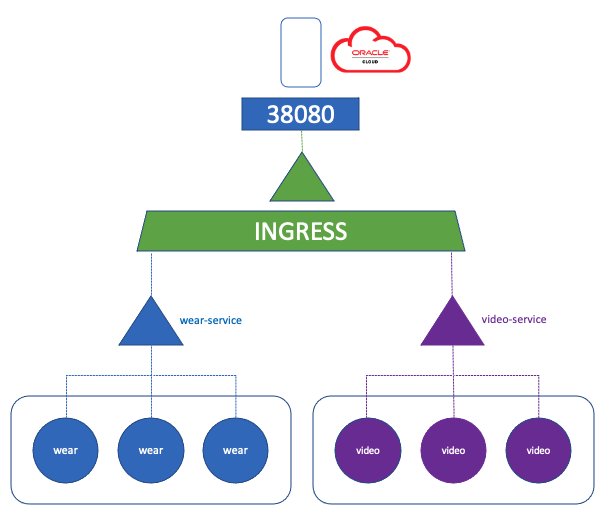
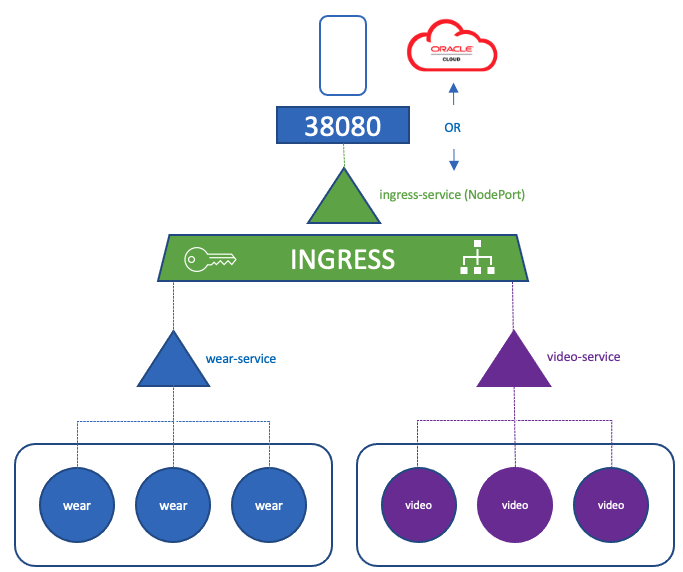
commit

Changed region(s): [[0.0, 0.0, 1.0, 0.9922], [0.6535, 0.2171, 0.6832, 0.2481]]

diff --git a/kubernetes_md/kubernetes_en.md b/kubernetes_md/kubernetes_en.md
@@ -3289,4 +3289,293 @@ All can be done with another Kubernetes definition file that lives with the rest
 
 That's where Ingress comes in, Ingress helps our users access the application using a single externally accessible secure URL that we can configure to redirect to different services within our cluster based on the URL path. 
 
-Simply put, think of Ingress as a layer Load Balancer built-in to the Kubernetes cluster that can be configured using native Kubernetes primitives just like any other objects in Kubernetes.
+Simply put, think of Ingress as a layer seven Load Balancer built-in to the Kubernetes cluster that can be configured using native Kubernetes primitives just like any other objects in Kubernetes.
+
+Even with Ingress, we still need to expose it to make it accessible outside the cluster, so we still have to either publish it as a NodePort or with a Cloud Native Load Balancer. With this setup, we're going to perform all our load-balancing authentication, SSL and URL based routing configuration on the ingress controller.
+
+So, how does it work? Without ingress, how would we do all of this? We would use a reverse proxy or a load balancing solution like nginx, HAProxy or traefik. We would deploy them on a Kubernetes cluster and configure them to road traffic to other services.
+
+Ingress is implemented by Kubernetes, with any of the services we listed above (nginx, HAProxy or traefik), we need to deploy the solution and then set up a set of rules to configure Ingress. The solution we deploy is called as an Ingress controller, and the set of rules we configure are called as Ingress resources.
+
+Ingress resources are created using definition files like the ones we use to create pods, deployments and services.
+
+A Kubernetes cluster does not come with an ingress controller by default. If we set up a cluster, we won't have an ingress controller built into it. So, if we simply create ingress resources and expect them to work, they won't. 
+
+The question is, what are we deploying? There are a number of solutions available for Ingress such as Oracle Load Balancer which is Oracle's layer seven HTTP Load Balancer, GCE which is Google's layer seven HTTP Load Balancer, nginx, Contour, HAPProxy, traefik and Istio.
+
+These ingress controller are not just another Load Balancer or nginx server. The Load Balancer components are just a part of it. The ingress controllers have additional intelligence built into them to monitor the Kubernetes cluster for new definitions or ingress resources and configure the Nginx server accordingly.
+
+So we start with a deployment definition file named nginx-ingress-controller with on replica and a simple pod definition tenplate. We'll label it nginx-ingress, and the image used is nginx-ingress-controller with the right version.
+
+1. Deployment Configuration File
+
+```properties
+apiVersion: apps/v1
+kind: Deployment
+metadata:
+  name: nginx-ingress-controller
+spec:
+  replicas: 1
+  selector:
+    matchLabels:
+      name: nginx-ingress
+  template:
+    metadata:
+      label:
+        name: nginx-ingress
+    spec:
+      containers:
+        - name: nginx-ingress-controller
+          image: quay.io/kubernetes-ingress-controller/nginx-ingress-controller:0.21.0
+      args:
+        - /nginx-ingress-controller
+```
+
+This is a special build of Nginx built specifically to be used as an ingress controller in Kubernetes. So it has it's own set up requirements, within the image the Nginx program is stored at location `/nginx-ingress-controller`, so we must pass that as the comamnd to start the Nginx controller service.
+
+Nginx has a number of configuration options such as path the store the logs, keep-alive threshold, SSL settings, seesion timeouts, etc. In order to decouple these configuration data from the Nginx controller image, we must create a ConfigMap object and pass that in as follows. 
+
+2. ConfigMap Configuration File
+
+```properties
+kind: ConfigMap
+apiVersion: v1
+metadata:
+  name: nginx-configuration
+```
+
+The ConfigMap need to have any entries at this point, for this definition to be valid, the `args` section of the previous definition file must be as follows.
+
+1. Deployment Configuration File Additional v1
+
+```properties
+    spec:
+      containers:
+        - name: nginx-ingress-controller
+          image: quay.io/kubernetes-ingress-controller/nginx-ingress-controller:0.21.0
+      args:
+        - /nginx-ingress-controller
+        - --configmap=$(POD_NAMESPACE)/nginx-configuration
+```
+
+Creating a ConfigMap makes it easy for us to modify a configuration settings in the future. We'll just have to add it in to the ConfigMap and not have to worry about modifiying the Nginx configuration files.
+
+We must also pass into environment variables that carry the pods, name and namespace it is deployed to.
+
+1. Deployment Configuration File Additional v2
+
+```properties
+    spec:
+      containers:
+        - name: nginx-ingress-controller
+          image: quay.io/kubernetes-ingress-controller/nginx-ingress-controller:0.21.0
+      args:
+        - /nginx-ingress-controller
+        - --configmap=$(POD_NAMESPACE)/nginx-configuration
+      env:
+        - name: POD_NAME
+          valueFrom:
+            fieldRef:
+              fieldPath: metadata.namespace
+```
+
+The Nginx service requires these to read the configuration data from within the pod. And finally specify the ports used by the Ingress controller, which happens to be 80 and 443.
+
+1. Deployment Configuration File Additional v3
+
+```properties
+    spec:
+      containers:
+        - name: nginx-ingress-controller
+          image: quay.io/kubernetes-ingress-controller/nginx-ingress-controller:0.21.0
+      args:
+        - /nginx-ingress-controller
+        - --configmap=$(POD_NAMESPACE)/nginx-configuration
+      env:
+        - name: POD_NAME
+          valueFrom:
+            fieldRef:
+              fieldPath: metadata.namespace
+
+      ports:
+        - name: http
+          containerPort: 80
+        - name: https
+          containerPort: 443
+```
+
+We then need a service to expose the controller to the external users, so we create a service of type NodePort with the Nginx ingress label selector tooling the service to the deployment.
+
+3. Service Configuration File
+
+```properties
+apiVersion: v1
+kind: Service
+metadata: 
+  name: nginx-ingress
+spec:
+  type: NodePort
+  ports:
+  - port: 80
+    targetPort: 80
+    protocol: TCP
+    name: http
+  - port: 443
+    targetPort: 443
+    protocol: TCP
+    name: https
+  selector:
+    name: nginx-ingress
+```
+
+As mentioned before, the ingress controllers have additional intelligence built into them to monitor the Kubernetes cluster for ingress resources and configure the underlying Nginx server when something has changed.
+
+But for the ingress controller, to do this, it requires a service account with the right set of permissions. For that, we create a service account with the correct roles and role bindings as follows.
+
+4. Auth Configuration File
+
+```properties
+apiVersion: v1
+kind: ServiceAccount
+metadata:
+  name: nginx-ingress-serviceaccount
+```
+
+So to summarize, with a `Deployment` of Nginx ingress image and `Service` to expose it, a `ConfigMap` to feed Nginx configuration data and a Service account (`Auth`) with the right permissions to access all of these objects. So, we should be ready with an Ingress controller in its simpliest form.
+
+The next part of creating ingress resources. Ingress resource is a set of rules and configurations applied on the Ingress controller. We can configure rules to say simply forward all incoming traffic to a single application or route traffic to different applications based on the URL.
+
+So, if a user goes to `www.my-online-store.com/wear` then brought to one of the applications, or if the user visits the `www.my-online-store.com/watch`, then watch the video app, etc. 
+
+Or we could route users based on the domain name itself. For example, the user can visit the wear application via the `wear.my-online-store.com` address or the watch application via the `watch.my-online-store.com` link.
+
+Let us look at how to configure these and a bit more detail. The Ingress resource is created with a Kubernetes definition file. Let's say the name of the file is `ingress-wear.yaml`.
+
+Under the spec we'll have back-end. and this section defines where the traffic will be routed to. So, its a single back-end, then we don't really have any rules. We can simply specify the `serviceName` and `servicePort` of the back-end where service.
+
+5. Ingress Resource Configuration File
+
+```properties
+apiVersion: extensions/v1beta1
+kind: Ingress
+metadata:
+  name: ingress-wear
+spec:
+  backend:
+    serviceName: wear-service
+    servicePort: 80
+```
+
+```bash
+% kubectl create -f ingress-wear.yaml
+ingress.extensions/ingress-wear created
+```
+
+```bash
+% kubectl get ingress
+NAME           CLASS    HOSTS   ADDRESS   PORTS   AGE
+ingress-wear   <none>   *                 80      70s
+```
+
+The new Ingress is now created and wrote all incoming traffic directly to the wear service. We use rules when we want to route traffic based on different conditions. 
+
+**For example:**
+- **Rule 1 :** `www.my-online-store.com`
+- **Rule 2 :** `www.wear.my-online-store.com`
+- **Rule 3 :** `www.watch.my-online-store.com`
+- **Rule 4 :** `Everything Else`
+
+Within each rule, we can handle different pods. For instance, according to rule 1, the `www.my-online-store.com/wear` path will route the traffic to the clothes app. The `www.my-online-store.com/watch` path will route the traffic to the video streaming app. And there will be a third path that routes anything other than the first two paths to the `404 not found`.
+
+Similarly, the second rule handles all traffic from `www.wear.my-online-store.com`, we can also have a path definition within this rule to route traffic to different paths. For example, say we have different applications and services within the clothes section for shopping or returns or support. When a user goes to `www.wear.my-online-store.com/support`, path will route the traffic to the support app.
+
+By default, it will be the shopping page but if the user changes the URL, it will be different backend services.
+
+A similar structure but different logic will apply to Rule 3 and finally, aything other than the listed, will go to the 4th Rule that would simply show a `404 not found error` page.
+
+We have rules at the top for each host or domain and inside each rule, we will have different pods to route traffic accordingly.
+
+Let's look at how we configure ingress resources in Kubernetes. We need to define a similar definition file as we defined for ingress-wear. But this time it's different, under the spec section, we need a set of rules.
+
+Now our requirement here is to handle all traffic to `my-online-store.com` and find them by URL path. So we just need a single rule for this, since we are only handling traffic to a single domain name which is `my-online-store.com`.
+
+In the rules section, we have an item that is an HTTP rule that specifies different paths. The paths section is an array of multiple items and these multiple items are define a path for each URL. The backend specification will remain the same as in an ingress-wear example. It will have the serviceName and servicePort sections.
+
+Similarly, we'll create a similar back-end entry to the second URL part for the watch-service to route all traffic coming in through the watch URL to the watch-service.
+
+```properties
+apiVersion: extensions/v1beta1
+kind: Ingress
+metadata:
+  name: ingress-wear-watch
+spec:
+  rules:
+    - http:
+        paths:
+        - path: /wear
+          backend:
+            serviceName: wear-service
+            servicePort: 80
+        - path: /watch
+          backend:
+            serviceName: watch-service
+            servicePort: 80
+```
+
+```bash
+% kubectl create -f ingress-wear-watch.yaml
+ingress.extensions/ingress-wear-watch created
+```
+
+By running the describe command, we should see two back-in URLs under the rules and the back-end services are pointing to just as we created it. 
+
+**Note :** `endpoints not found` errors are ignorable as backend services are not created.
+
+```bash
+% kubectl describe ingress ingress-wear-watch
+Name:             ingress-wear-watch
+Namespace:        default
+Address:          
+Default backend:  default-http-backend:80 (<error: endpoints "default-http-backend" not found>)
+Rules:
+  Host        Path  Backends
+  ----        ----  --------
+  *           
+              /wear    wear-service:80 (<error: endpoints "wear-service" not found>)
+              /watch   watch-service:80 (<error: endpoints "watch-service" not found>)
+Annotations:  <none>
+Events:       <none>
+```
+
+If we look closely at the output command above, we can see that there is something about a `Default backend`. If a user tries to access a URL that does not match of these rules, then the user is directed to the service specified as the Default backend. In this case, it happens to be a service named default-http-backend. So we must remeber to deploy such a service.
+
+If a user visits the URL `my-online-store.com/listen` or `my-online-store.com/eat` and If we don't have an audio or food delivery service, we may want to show them a nice message instead of an error. We can do this by configuring a default backend service to display that message.
+
+The third type of configuration is using domain names or hostnames. To make this definition, we can create a definition file similar to the ingress. Let's say we have two domains, we need to create two rules for each domain. To split the traffic by domain name, we use the host field.
+
+The host field in each rule matches the value specified by the domain name used in the requested URL and routes traffic to the appropriate backend. 
+
+In the previous case, we did not specify the host field. If we don't specify the host field, it will accept all traffic coming through this particular rule without matching the hostname.
+
+In this case, the definition file should be as follows.
+
+```properties
+apiVersion: extensions/v1beta1
+kind: Ingress
+metadata:
+  name: ingress-wear-watch
+spec:
+  rules:
+  - host: wear.my-online-store.com
+    http:
+      paths:
+      - backend:
+          serviceName: wear-service
+          servicePort: 80
+  - host: watch.my-online-store.com
+    http:
+      paths:
+      - backend:
+          serviceName: watch-service
+          servicePort: 80
+```
